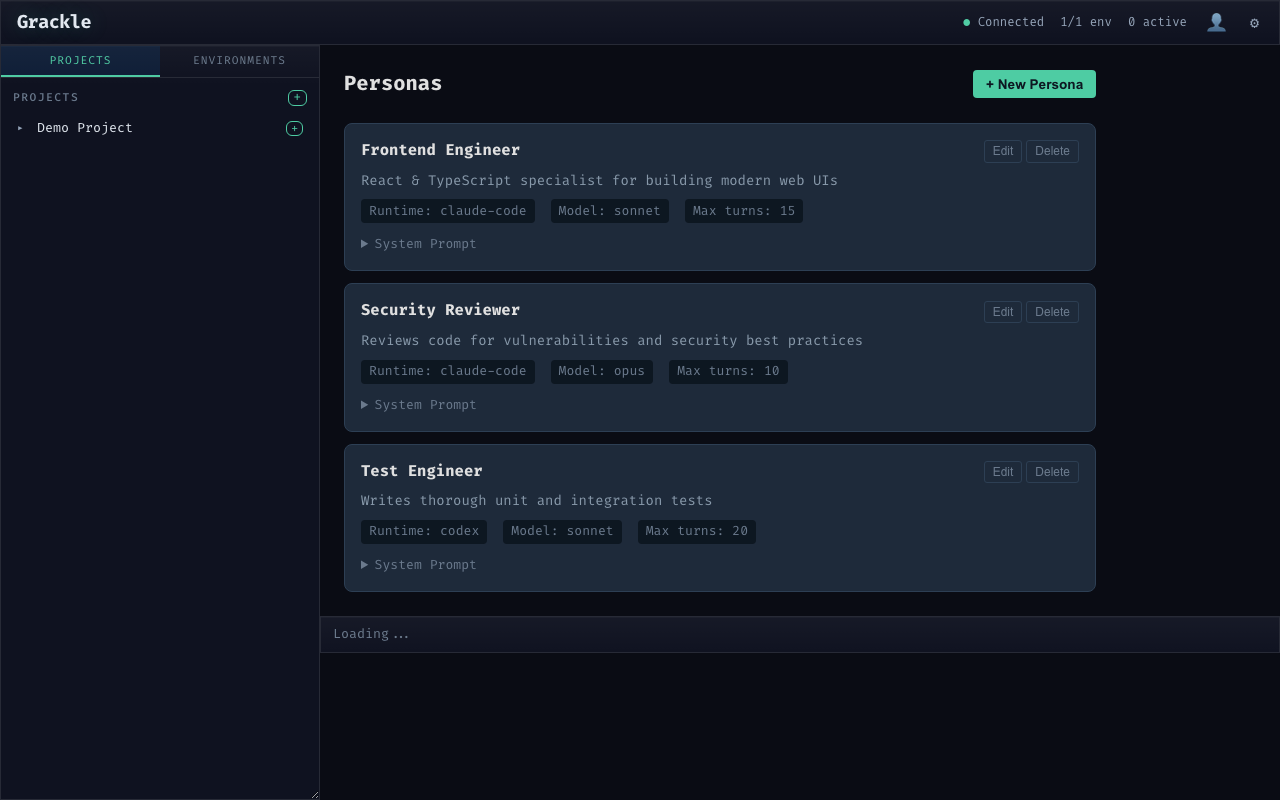
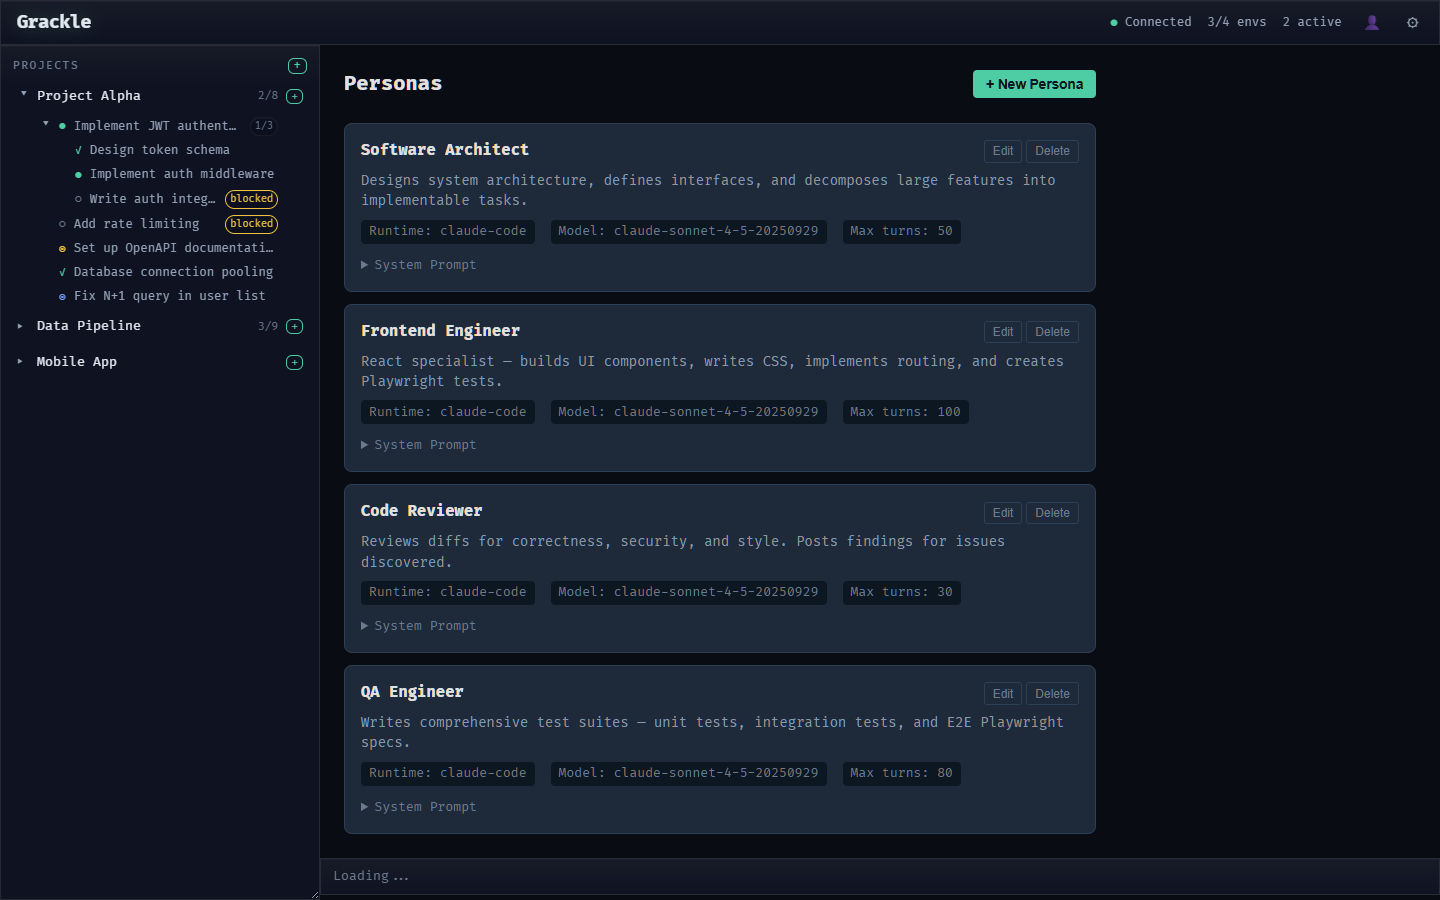
docs: refresh README screenshots, update copy, and modernize Quick Start
Recapture all 6 screenshots against current UI (task-only sidebar, collapsible
sessions, enriched task overview, DAG visualization, persona management).
Remove stale diff-review and old persona form screenshots. Update README copy:
npm-based Quick Start replacing rush-build instructions, shipped persona feature,
session history and task review rows in features table, workpads/workspaces
teaser, and closed issue link cleanup. Update mock data with personas and
session history so ?mock mode renders realistic demo state.

diff --git a/packages/web/src/mocks/mockData.ts b/packages/web/src/mocks/mockData.ts
@@ -14,6 +14,7 @@ import type {
   TaskData,
   FindingData,
   TokenInfo,
+  PersonaData,
 } from "../hooks/useGrackleSocket.js";
 
 // ─── Environments ───────────────────────────────────
@@ -222,7 +223,7 @@ export const MOCK_TASKS: TaskData[] = [
     depth: 0,
     childTaskIds: ["task-001a", "task-001b", "task-001c"],
     canDecompose: true,
-    personaId: "",
+    personaId: "persona-arch",
   },
   // ── Children of task-001 ───────────────────────────
   {
@@ -261,7 +262,7 @@ export const MOCK_TASKS: TaskData[] = [
     depth: 1,
     childTaskIds: [],
     canDecompose: false,
-    personaId: "",
+    personaId: "persona-fe",
   },
   {
     id: "task-001c",
@@ -280,7 +281,7 @@ export const MOCK_TASKS: TaskData[] = [
     depth: 1,
     childTaskIds: [],
     canDecompose: false,
-    personaId: "",
+    personaId: "persona-tester",
   },
   // ── Remaining root tasks for proj-alpha ────────────
   {
@@ -319,7 +320,7 @@ export const MOCK_TASKS: TaskData[] = [
     depth: 0,
     childTaskIds: [],
     canDecompose: false,
-    personaId: "",
+    personaId: "persona-fe",
   },
   {
     id: "task-004",
@@ -652,6 +653,98 @@ export const MOCK_TOKENS: TokenInfo[] = [
     expiresAt: "",
   },
 ];
+
+// ─── Personas ───────────────────────────────────────
+
+/** Sample personas demonstrating different agent specializations. */
+export const MOCK_PERSONAS: PersonaData[] = [
+  {
+    id: "persona-arch",
+    name: "Software Architect",
+    description: "Designs system architecture, defines interfaces, and decomposes large features into implementable tasks.",
+    systemPrompt: "You are a senior software architect. Focus on clean interfaces, separation of concerns, and scalable patterns. When decomposing work, create concrete subtasks with clear acceptance criteria.",
+    toolConfig: JSON.stringify({ allowedTools: ["Read", "Grep", "Glob", "Write", "Edit"] }),
+    runtime: "claude-code",
+    model: "claude-sonnet-4-5-20250929",
+    maxTurns: 50,
+    mcpServers: "[]",
+    createdAt: "2026-02-20T10:00:00Z",
+    updatedAt: "2026-02-20T10:00:00Z",
+  },
+  {
+    id: "persona-fe",
+    name: "Frontend Engineer",
+    description: "React specialist — builds UI components, writes CSS, implements routing, and creates Playwright tests.",
+    systemPrompt: "You are a frontend engineer specializing in React, TypeScript, and modern CSS. Follow component composition patterns, use semantic HTML, and write accessible markup.",
+    toolConfig: JSON.stringify({ allowedTools: ["Read", "Grep", "Glob", "Write", "Edit", "Bash"] }),
+    runtime: "claude-code",
+    model: "claude-sonnet-4-5-20250929",
+    maxTurns: 100,
+    mcpServers: "[]",
+    createdAt: "2026-02-20T10:05:00Z",
+    updatedAt: "2026-02-20T10:05:00Z",
+  },
+  {
+    id: "persona-reviewer",
+    name: "Code Reviewer",
+    description: "Reviews diffs for correctness, security, and style. Posts findings for issues discovered.",
+    systemPrompt: "You are a meticulous code reviewer. Check for security vulnerabilities, performance issues, and style consistency. Post findings for anything noteworthy.",
+    toolConfig: JSON.stringify({ allowedTools: ["Read", "Grep", "Glob"] }),
+    runtime: "claude-code",
+    model: "claude-sonnet-4-5-20250929",
+    maxTurns: 30,
+    mcpServers: "[]",
+    createdAt: "2026-02-20T10:10:00Z",
+    updatedAt: "2026-02-20T10:10:00Z",
+  },
+  {
+    id: "persona-tester",
+    name: "QA Engineer",
+    description: "Writes comprehensive test suites — unit tests, integration tests, and E2E Playwright specs.",
+    systemPrompt: "You are a QA engineer focused on test coverage. Write tests that cover happy paths, edge cases, error scenarios, and accessibility. Use Playwright for E2E tests.",
+    toolConfig: JSON.stringify({ allowedTools: ["Read", "Grep", "Glob", "Write", "Edit", "Bash"] }),
+    runtime: "claude-code",
+    model: "claude-sonnet-4-5-20250929",
+    maxTurns: 80,
+    mcpServers: "[]",
+    createdAt: "2026-02-20T10:15:00Z",
+    updatedAt: "2026-02-20T10:15:00Z",
+  },
+];
+
+// ─── Task Sessions ──────────────────────────────────
+
+/** Sample session history per task, showing multiple attempts. */
+export const MOCK_TASK_SESSIONS: Record<string, Session[]> = {
+  "task-001b": [
+    {
+      id: "sess-001-prev",
+      environmentId: "env-local-01",
+      runtime: "claude-code",
+      status: "failed",
+      prompt: "Implement auth middleware",
+      startedAt: "2026-02-26T14:00:00Z",
+    },
+    {
+      id: "sess-001",
+      environmentId: "env-local-01",
+      runtime: "claude-code",
+      status: "running",
+      prompt: "Implement auth middleware",
+      startedAt: "2026-02-27T08:15:00Z",
+    },
+  ],
+  "task-006c": [
+    {
+      id: "sess-004",
+      environmentId: "env-docker-01",
+      runtime: "claude-code",
+      status: "running",
+      prompt: "Add compression options",
+      startedAt: "2026-02-27T09:00:00Z",
+    },
+  ],
+};
 
 // ─── Stream Scenarios ───────────────────────────────
 

diff --git a/packages/web/src/mocks/MockGrackleProvider.tsx b/packages/web/src/mocks/MockGrackleProvider.tsx
@@ -27,6 +27,7 @@ import type {
   TaskData,
   Project,
   TokenInfo,
+  PersonaData,
 } from "../hooks/useGrackleSocket.js";
 import {
   MOCK_ENVIRONMENTS,
@@ -36,6 +37,8 @@ import {
   MOCK_TASKS,
   MOCK_FINDINGS,
   MOCK_TOKENS,
+  MOCK_PERSONAS,
+  MOCK_TASK_SESSIONS,
   MOCK_STREAM_SCENARIOS,
   type MockStreamStep,
 } from "./mockData.js";
@@ -67,6 +70,8 @@ export function MockGrackleProvider({ children }: MockGrackleProviderProps): JSX
   const [tasks, setTasks] = useState<TaskData[]>(MOCK_TASKS);
   const [findings, setFindings] = useState<FindingData[]>(MOCK_FINDINGS);
   const [tokens, setTokens] = useState<TokenInfo[]>(MOCK_TOKENS);
+  const [personas, setPersonas] = useState<PersonaData[]>(MOCK_PERSONAS);
+  const [taskSessions] = useState<Record<string, Session[]>>(MOCK_TASK_SESSIONS);
 
   // ── Refs ──────────────────────────────────────────
   /** Auto-incrementing counter for generating unique mock IDs. */
@@ -797,12 +802,56 @@ export function MockGrackleProvider({ children }: MockGrackleProviderProps): JSX
       createCodespace: () => { },
       projectCreating: false,
       taskStartingId: undefined,
-      personas: [],
-      createPersona: () => { },
-      updatePersona: () => { },
-      deletePersona: () => { },
-      taskSessions: {},
-      loadTaskSessions: () => { },
+      personas,
+      createPersona: (name: string, description: string, systemPrompt: string, runtime?: string, model?: string, maxTurns?: number) => {
+        // eslint-disable-next-line no-console
+        console.log("[MockGrackle] createPersona", { name });
+        const newPersona: PersonaData = {
+          id: `mock-persona-${Date.now()}`,
+          name,
+          description,
+          systemPrompt,
+          toolConfig: "{}",
+          runtime: runtime || "claude-code",
+          model: model || "",
+          maxTurns: maxTurns || 0,
+          mcpServers: "[]",
+          createdAt: new Date().toISOString(),
+          updatedAt: new Date().toISOString(),
+        };
+        setPersonas((prev) => [...prev, newPersona]);
+      },
+      updatePersona: (personaId: string, name?: string, description?: string, systemPrompt?: string, runtime?: string, model?: string, maxTurns?: number) => {
+        // eslint-disable-next-line no-console
+        console.log("[MockGrackle] updatePersona", { personaId, name });
+        setPersonas((prev) =>
+          prev.map((p) => {
+            if (p.id !== personaId) {
+              return p;
+            }
+            return {
+              ...p,
+              ...(name !== undefined ? { name } : {}),
+              ...(description !== undefined ? { description } : {}),
+              ...(systemPrompt !== undefined ? { systemPrompt } : {}),
+              ...(runtime !== undefined ? { runtime } : {}),
+              ...(model !== undefined ? { model } : {}),
+              ...(maxTurns !== undefined ? { maxTurns } : {}),
+              updatedAt: new Date().toISOString(),
+            };
+          }),
+        );
+      },
+      deletePersona: (personaId: string) => {
+        // eslint-disable-next-line no-console
+        console.log("[MockGrackle] deletePersona", personaId);
+        setPersonas((prev) => prev.filter((p) => p.id !== personaId));
+      },
+      taskSessions,
+      loadTaskSessions: (taskId: string) => {
+        // eslint-disable-next-line no-console
+        console.log("[MockGrackle] loadTaskSessions", taskId);
+      },
     }),
     [
       sessions,
@@ -812,6 +861,8 @@ export function MockGrackleProvider({ children }: MockGrackleProviderProps): JSX
       tasks,
       findings,
       tokens,
+      personas,
+      taskSessions,
       spawn,
       sendInput,
       kill,

diff --git a/README.md b/README.md
@@ -2,7 +2,7 @@
 
 **Orchestrate AI coding agents across any environment, with any runtime, at any scale.**
 
-Grackle is a multi-agent coordination platform. Break a project into tasks, dispatch each to an agent running in its own isolated environment, and watch them work in real time. Review real diffs, share knowledge between agents, and scale from one agent to a swarm — without rewriting your setup.
+Grackle is a multi-agent coordination platform. Break a project into tasks, dispatch each to an agent running in its own isolated environment, and watch them work in real time. Share knowledge between agents through findings, review task output at each step, and scale from one agent to a swarm — without rewriting your setup.
 
 ![Dashboard — projects, tasks, and live agent output](docs/screenshots/dashboard-projects-tasks.png)
 
@@ -72,17 +72,19 @@ graph TD
     style N fill:#333,stroke:#666,stroke-dasharray: 5 5
 ```
 
-### 🔍 Auditable artifacts, not magic ⭐
+### 🔍 Auditable artifacts, not magic
 
-Every agent produces real, reviewable output: git diffs, markdown reports, PR comments, findings. The full conversation thread is stored in the central server database — every tool call, every decision, fully auditable. Nothing happens in a black box. Git branches and tags provide natural coordination points — not a proprietary state machine. If you can read a diff, you can audit a swarm.
+Every agent produces real, reviewable output: git branches, markdown reports, PR comments, findings. The full conversation thread is stored in the central server database — every tool call, every decision, fully auditable. Nothing happens in a black box. Git branches and tags provide natural coordination points — not a proprietary state machine. If you can read a diff, you can audit a swarm.
 
-![Diff review — see exactly what each agent changed](docs/screenshots/diff-review.png)
+Workpads and workspaces are coming as a unified mechanism for structured agent handoff — a single surface where agents produce artifacts, humans review them, and the next agent picks up where the last one left off.
 
 ### 🧠 Agents that actually coordinate
 
-Agents don't just run in parallel — they share knowledge. One agent's architectural insight becomes another agent's context through findings and the knowledge graph [⭐#13](https://github.com/nick-pape/grackle/issues/13). Agent personas [⭐#11](https://github.com/nick-pape/grackle/issues/11) with tool allowlists keep specialists focused. The coordination primitives are the ones engineers already use: git, diffs, code review.
+Agents don't just run in parallel — they share knowledge. One agent's architectural insight becomes another agent's context through findings and the knowledge graph [⭐#13](https://github.com/nick-pape/grackle/issues/13). Agent personas with focused system prompts and tool allowlists [⭐#11](https://github.com/nick-pape/grackle/issues/11) keep specialists on task. The coordination primitives are the ones engineers already use: git, branches, code review.
 
 ![Findings — categorized discoveries shared across agents](docs/screenshots/findings-panel.png)
+
+![Personas — specialized agent templates with runtime, model, and system prompt configuration](docs/screenshots/persona-management-view.png)
 
 ## 🏗 Example Topology
 
@@ -122,9 +124,10 @@ graph TD
 | 🔄 | **Multi-runtime support** | Claude Code, Copilot, and Codex — with more on the roadmap |
 | 🌲 | **Task tree hierarchy** | Decompose tasks into parent/child subtrees up to 5 levels deep — with recursive tree view, expand/collapse, and progress badges |
 | 🔗 | **Task dependencies** | Dependency gating — blocked tasks wait for their dependencies to complete |
-| ✅ | **Diff review** | See exactly what each agent changed, approve or reject per-task |
+| 🎭 | **Agent personas** | Specialized agents with focused system prompts, configurable runtime/model, and tool allowlists [⭐#11](https://github.com/nick-pape/grackle/issues/11) |
+| 🔁 | **Session history** | Every task tracks its full session history — retry failed runs and compare attempts side by side |
+| ✅ | **Task review & approval** | Approve or reject completed tasks, with review notes for rejections that feed back into the next attempt |
 | 🧠 | **Knowledge graph** [⭐#13](https://github.com/nick-pape/grackle/issues/13) | Structured knowledge sharing across agents — beyond flat findings |
-| 🎭 | **Agent personas** [⭐#11](https://github.com/nick-pape/grackle/issues/11) | Specialized agents with tool allowlists and focused system prompts |
 
 ## 🌍 Environments
 
@@ -134,33 +137,47 @@ Each agent runs inside an isolated environment. Connect one or many:
 |---------|--------|---------|
 | 🐳 **Docker** | ✅ Available | `grackle env add my-env --docker` |
 | 💻 **Local** | ✅ Available | `grackle env add my-env --local` |
-| 🔒 **SSH** | ✅ Available [#30](https://github.com/nick-pape/grackle/issues/30) | `grackle env add my-env --ssh --host ...` |
-| ☁ **Codespace** | ✅ Available [#31](https://github.com/nick-pape/grackle/issues/31) | `grackle env add my-env --codespace --codespace-name <name>` |
+| 🔒 **SSH** | ✅ Available | `grackle env add my-env --ssh --host ...` |
+| ☁ **Codespace** | ✅ Available | `grackle env add my-env --codespace --codespace-name <name>` |
 
-![Environments — manage agents across local, Docker, Codespace, and SSH](docs/screenshots/agent-session-stream.png)
+![Settings — manage environments, session monitoring, and API tokens](docs/screenshots/agent-session-stream.png)
 
 Docker spins up a container with PowerLine pre-installed. Local connects to a PowerLine instance already running on your machine. SSH connects to any remote host via OpenSSH. Codespace connects to an existing GitHub Codespace by name (use `gh codespace list` to find it).
 
 ## 🚀 Quick Start
 
 ```bash
-# 1. Install and build
-npm install -g @microsoft/rush
-rush update && rush build
+# 1. Install the CLI
+npm install -g @grackle-ai/cli
 
-# 2. Start the server (gRPC + Web UI + WebSocket)
-node packages/server/dist/index.js
+# 2. Start the server (gRPC + Web UI + WebSocket — all in one)
+grackle serve
 
 # 3. Open the dashboard at http://localhost:3000
 
 # 4. Add a Docker environment and start working
-node packages/cli/dist/index.js env add my-env --docker
+grackle env add my-env --docker
 ```
+
+Or skip the global install entirely:
+
+```bash
+npx @grackle-ai/cli serve
+```
+
+<details>
+<summary>Building from source</summary>
+
+```bash
+npm install -g @microsoft/rush
+rush update && rush build
+node packages/cli/dist/index.js serve
+```
+</details>
 
 ## 📋 Requirements
 
 - Node.js >= 22
-- pnpm 10+
 - Docker (for containerized environments)
 
 ## 📄 License
